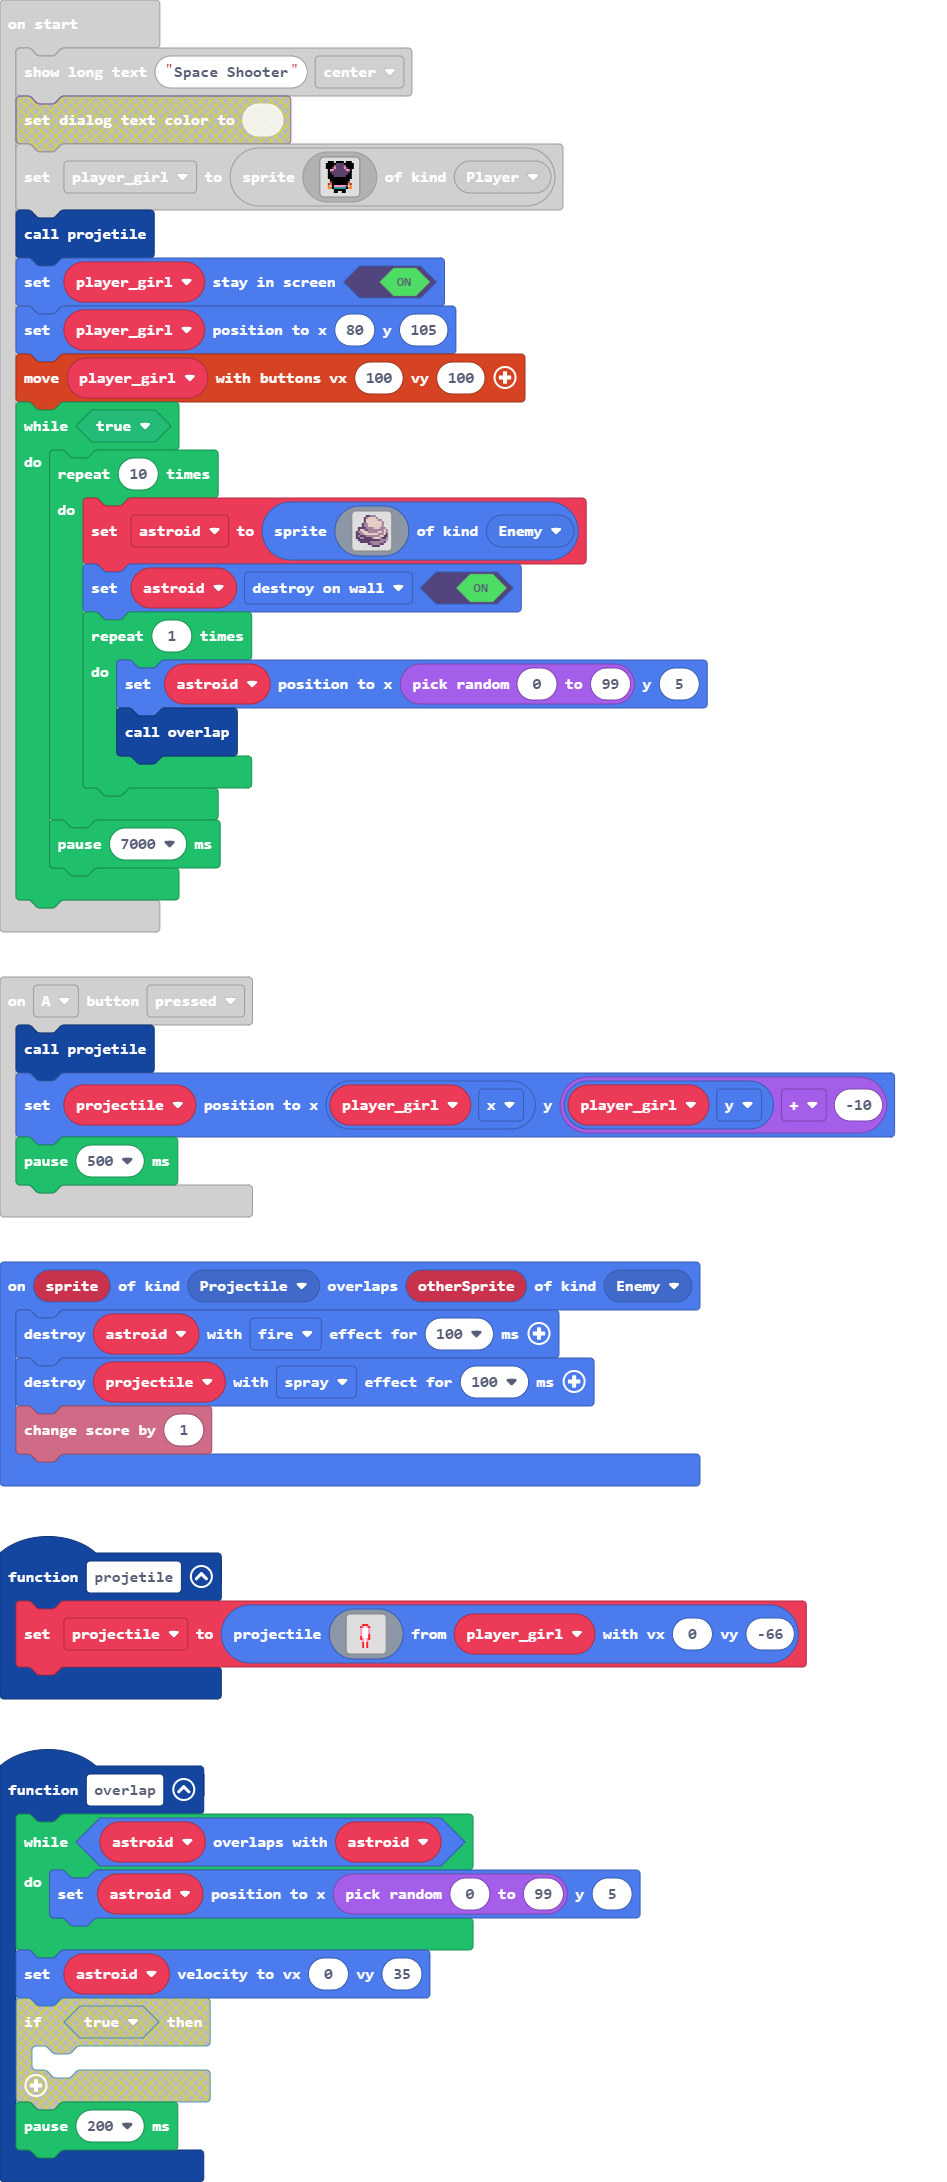
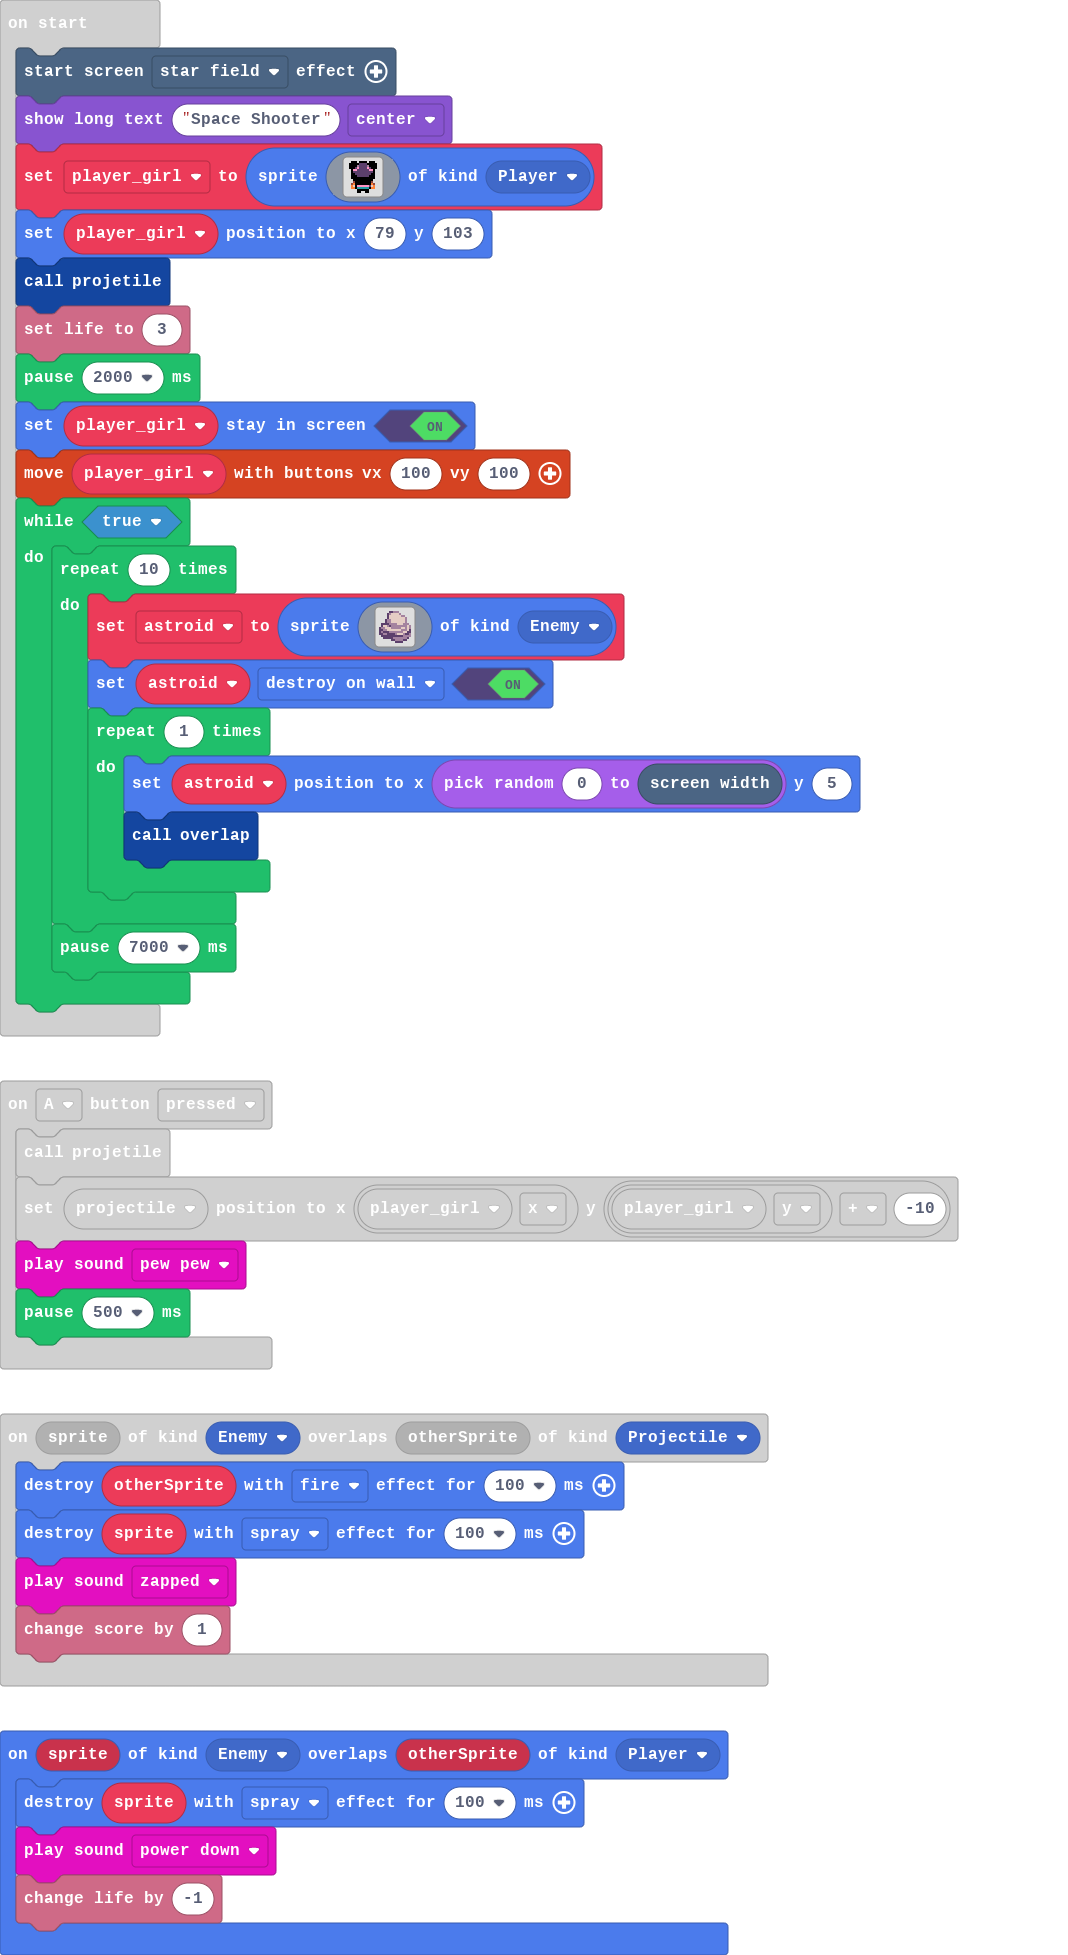
Update main.blocks, main.ts

diff --git a/main.ts b/main.ts
@@ -1,11 +1,23 @@
 controller.A.onEvent(ControllerButtonEvent.Pressed, function () {
     projetile()
     projectile.setPosition(player_girl.x, player_girl.y + -10)
+    music.pewPew.play()
     pause(500)
+})
+sprites.onOverlap(SpriteKind.Enemy, SpriteKind.Projectile, function (sprite, otherSprite) {
+    otherSprite.destroy(effects.fire, 100)
+    sprite.destroy(effects.spray, 100)
+    music.zapped.play()
+    info.changeScoreBy(1)
 })
 function projetile () {
     projectile = sprites.createProjectileFromSprite(assets.image`bullet`, player_girl, 0, -66)
 }
+sprites.onOverlap(SpriteKind.Enemy, SpriteKind.Player, function (sprite, otherSprite) {
+    sprite.destroy(effects.spray, 100)
+    music.powerDown.play()
+    info.changeLifeBy(-1)
+})
 function overlap () {
     while (astroid.overlapsWith(astroid)) {
         astroid.setPosition(randint(0, 99), 5)
@@ -13,26 +25,24 @@ function overlap () {
     astroid.setVelocity(0, 35)
     pause(200)
 }
-sprites.onOverlap(SpriteKind.Projectile, SpriteKind.Enemy, function (sprite, otherSprite) {
-    astroid.destroy(effects.fire, 100)
-    projectile.destroy(effects.spray, 100)
-    info.changeScoreBy(1)
-})
 let projectile: Sprite = null
 let astroid: Sprite = null
 let player_girl: Sprite = null
+effects.starField.startScreenEffect()
 game.showLongText("Space Shooter", DialogLayout.Center)
 player_girl = sprites.create(assets.image`girl`, SpriteKind.Player)
+player_girl.setPosition(79, 103)
 projetile()
+info.setLife(3)
+pause(2000)
 player_girl.setStayInScreen(true)
-player_girl.setPosition(80, 105)
 controller.moveSprite(player_girl)
 while (true) {
     for (let index = 0; index < 10; index++) {
         astroid = sprites.create(assets.image`asteroid`, SpriteKind.Enemy)
         astroid.setFlag(SpriteFlag.DestroyOnWall, true)
         for (let index = 0; index < 1; index++) {
-            astroid.setPosition(randint(0, 99), 5)
+            astroid.setPosition(randint(0, scene.screenWidth()), 5)
             overlap()
         }
     }
